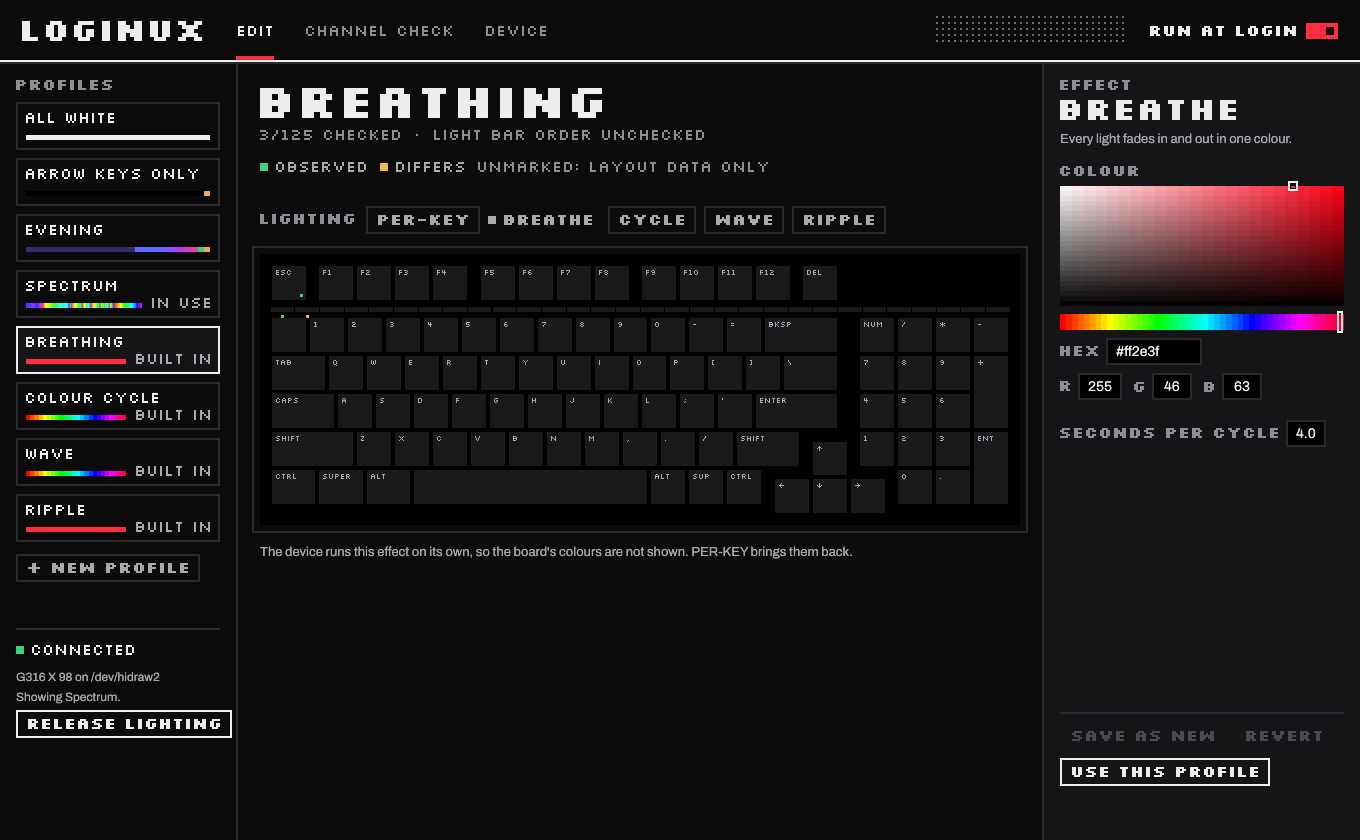
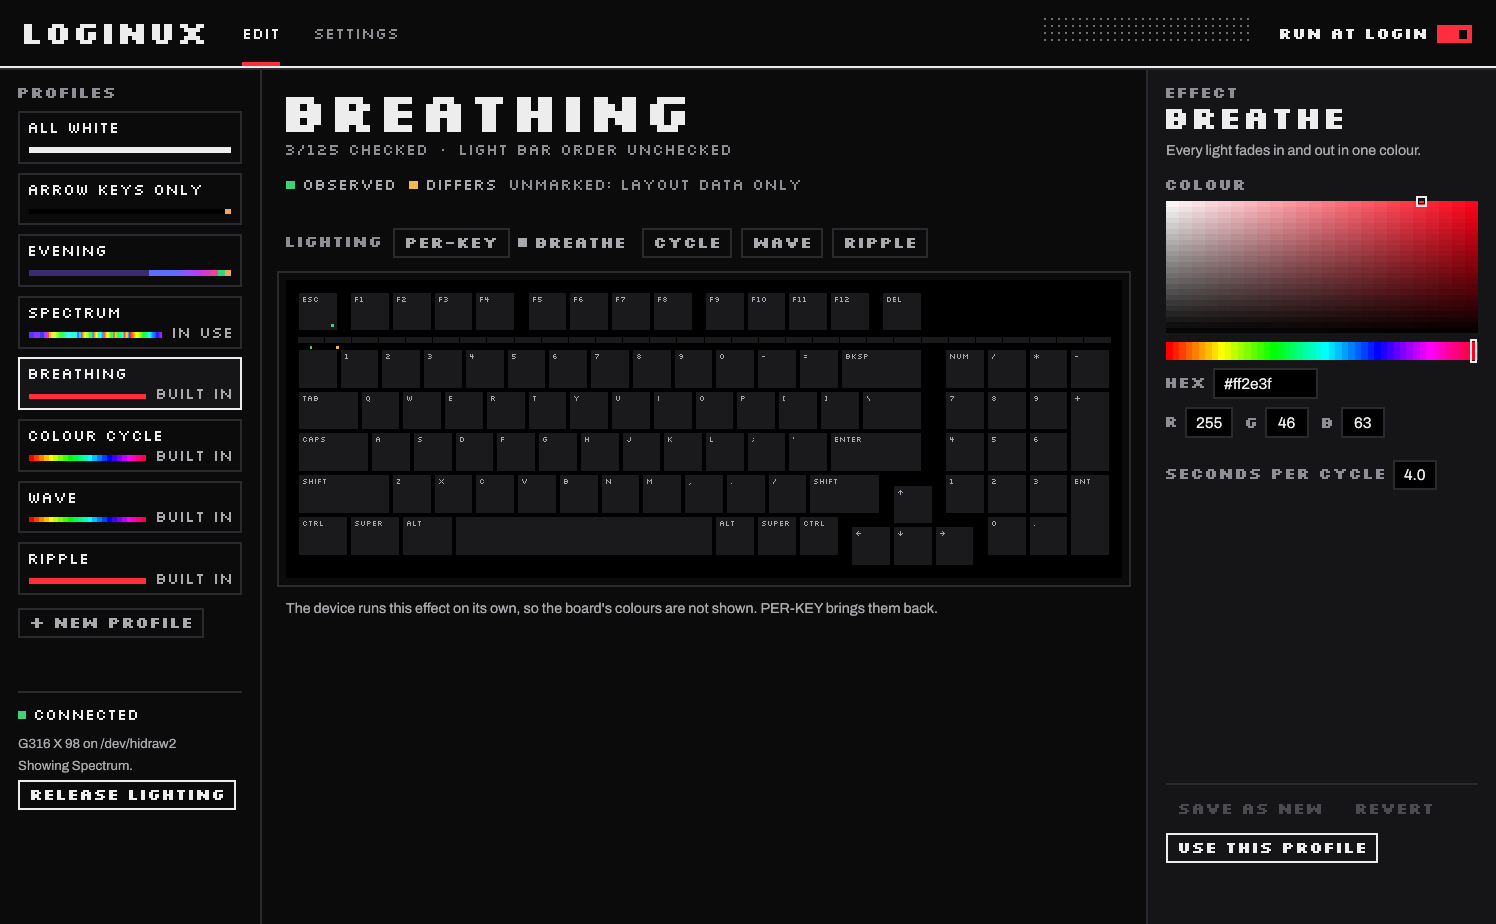
Editor: EDIT and SETTINGS, with the channel check under SETTINGS
The header carried three tabs, EDIT, CHANNEL CHECK and DEVICE, though only
editing is everyday work: the channel check is calibration and the device
rows are settings. The header now has EDIT and SETTINGS. SETTINGS shows the
device rows, then a short channel-check entry with its progress and an OPEN
CHANNEL CHECK button. The check keeps its full view, with BACK TO SETTINGS on
its title row, and SETTINGS stays underlined while it is open. The docs,
DESIGN.md, the design sidecar and the README screenshots follow.

diff --git a/src/ui.rs b/src/ui.rs
@@ -389,8 +389,10 @@ fn service_state() -> Service {
 #[derive(Clone, Copy, PartialEq)]
 enum Tab {
     Edit,
+    /// Device settings, and the way into the channel check.
+    Settings,
+    /// The channel check, opened from Settings, under the SETTINGS tab.
     Check,
-    Device,
 }
 
 #[derive(Clone, Copy, PartialEq)]
@@ -732,12 +734,12 @@ impl App {
         px_text(&p, pos2(r.min.x + 22.0, r.center().y - brand.y / 2.0), "LOGINUX", BRAND, TEXT);
 
         let mut x = r.min.x + 22.0 + brand.x + 36.0;
-        for (tab, name) in [(Tab::Edit, "EDIT"), (Tab::Check, "CHANNEL CHECK"), (Tab::Device, "DEVICE")] {
+        for (tab, name) in [(Tab::Edit, "EDIT"), (Tab::Settings, "SETTINGS")] {
             let size = px_size(name, TAB, ppp);
             let hit = Rect::from_min_max(pos2(x - 8.0, r.min.y), pos2(x + size.x + 8.0, r.max.y));
             let resp = ui.interact(hit, ui.scope_id().with(name), Sense::click());
             resp.widget_info(|| egui::WidgetInfo::labeled(egui::Role::Tab, true, name));
-            let on = self.tab == tab;
+            let on = self.tab == tab || (tab == Tab::Settings && self.tab == Tab::Check);
             let ink = if on || resp.hovered() { TEXT } else { LABEL };
             px_text(&p, pos2(x, r.center().y - size.y / 2.0), name, TAB, ink);
             if on {
@@ -934,7 +936,7 @@ impl App {
         if self.tab == Tab::Check {
             return self.check_results(ui);
         }
-        if self.tab == Tab::Device {
+        if self.tab == Tab::Settings {
             return self.device_notes(ui);
         }
         if self.open.is_some() && self.work.effect.is_some() {
@@ -1326,15 +1328,37 @@ impl App {
         match self.tab {
             Tab::Edit => self.edit(ui),
             Tab::Check => self.check(ui),
-            Tab::Device => self.device(ui),
+            Tab::Settings => self.settings(ui),
         }
     }
 
     // ---- device settings ------------------------------------------------------------
 
-    fn device(&mut self, ui: &mut Ui) {
-        label(ui, "DEVICE", TITLE, TEXT);
+    /// Settings, set apart from the editor: the device's own settings, then a
+    /// way into the channel check, which is calibration rather than editing.
+    fn settings(&mut self, ui: &mut Ui) {
+        label(ui, "SETTINGS", TITLE, TEXT);
+        ui.add_space(18.0);
+        label(ui, "DEVICE", LABEL_PX, LABEL);
         ui.add_space(6.0);
+        self.device(ui);
+        ui.add_space(14.0);
+        rule(ui);
+        ui.add_space(14.0);
+        label(ui, "CHANNEL CHECK", LABEL_PX, LABEL);
+        ui.add_space(6.0);
+        body(ui, "Lights one zone at a time, so you can confirm where each key and light-bar segment really is.", TEXT2, 14.0);
+        ui.add_space(10.0);
+        ui.horizontal(|ui| {
+            if button(ui, "OPEN CHANNEL CHECK", Look::Outline, true).clicked() {
+                self.tab = Tab::Check;
+            }
+            ui.add_space(6.0);
+            label(ui, &self.checked(), SMALL, LABEL);
+        });
+    }
+
+    fn device(&mut self, ui: &mut Ui) {
         let Some(Device::Connected { name, path, protocol, .. }) = self.status().map(|s| s.device.clone()) else {
             body(ui, "Connect the keyboard to read its settings.", TEXT2, 14.0);
             return;
@@ -1442,14 +1466,11 @@ impl App {
         }
     }
 
-    fn edit(&mut self, ui: &mut Ui) {
-        let title = self.open.clone().unwrap_or_else(|| "NO PROFILE".into()).to_uppercase();
-        label(ui, &title, TITLE, TEXT);
-        ui.add_space(4.0);
+    /// How much of the map the channel check has confirmed, as the meta line says it.
+    fn checked(&self) -> String {
         let model = self.model;
         let mapped = model.zones.iter().filter(|z| z.kind != Kind::Unknown).count();
         let checked = self.checks.iter().filter(|(id, _)| model.zone(**id).is_some_and(|z| z.kind != Kind::Unknown)).count();
-        let live = matches!(self.status().map(|s| &s.control), Some(Control::Preview));
         let strips: String = model
             .strips
             .iter()
@@ -1458,9 +1479,19 @@ impl App {
                 format!(" \u{00b7} {} ORDER {}", s.title.to_uppercase(), if done { "CHECKED" } else { "UNCHECKED" })
             })
             .collect();
+        format!("{checked}/{mapped} CHECKED{strips}")
+    }
+
+    fn edit(&mut self, ui: &mut Ui) {
+        let title = self.open.clone().unwrap_or_else(|| "NO PROFILE".into()).to_uppercase();
+        label(ui, &title, TITLE, TEXT);
+        ui.add_space(4.0);
+        let model = self.model;
+        let live = matches!(self.status().map(|s| &s.control), Some(Control::Preview));
         let meta = format!(
-            "{}{checked}/{mapped} CHECKED{strips}{}",
+            "{}{}{}",
             if live { "LIVE \u{00b7} " } else { "" },
+            self.checked(),
             if self.dirty() { " \u{00b7} UNSAVED" } else { "" }
         );
         label(ui, &meta, SMALL, if self.dirty() { TEXT } else { LABEL });
@@ -1670,7 +1701,14 @@ impl App {
     // ---- channel check ----------------------------------------------------------------
 
     fn check(&mut self, ui: &mut Ui) {
-        label(ui, "CHANNEL CHECK", TITLE, TEXT);
+        ui.horizontal(|ui| {
+            label(ui, "CHANNEL CHECK", TITLE, TEXT);
+            ui.with_layout(egui::Layout::right_to_left(egui::Align::Center), |ui| {
+                if button(ui, "BACK TO SETTINGS", Look::Quiet, true).clicked() {
+                    self.tab = Tab::Settings;
+                }
+            });
+        });
         ui.add_space(6.0);
         let connected = self.connected_zones().is_some();
         let model = self.model;
@@ -1799,7 +1837,7 @@ impl App {
 /// after LOGINUX_SHOT_AFTER frames (default 30) and closes it the normal way.
 /// LOGINUX_SHOT_SELECT="23,1,19,4" preselects zones and LOGINUX_SHOT_PAINT=#rrggbb paints
 /// them; LOGINUX_SHOT_CONFIRM shows the unsaved-close question; LOGINUX_SHOT_SERVICE=off|on|changing
-/// stands in for systemd's answer; LOGINUX_SHOT_TAB=device opens the DEVICE tab
+/// stands in for systemd's answer; LOGINUX_SHOT_TAB=settings opens SETTINGS
 /// (LOGINUX_SHOT_CONFIRM_RATE=8000 shows the rate confirmation); LOGINUX_SHOT_TAB=check
 /// opens the channel check, and LOGINUX_SHOT_SET=strip starts a run on the first strip.
 #[cfg(feature = "screenshot")]
@@ -1819,8 +1857,8 @@ fn shot(app: &mut App, ctx: &egui::Context) {
         if std::env::var("LOGINUX_SHOT_CONFIRM").is_ok() {
             app.confirm = Some(Confirm::Close);
         }
-        if std::env::var("LOGINUX_SHOT_TAB").is_ok_and(|t| t == "device") {
-            app.tab = Tab::Device;
+        if std::env::var("LOGINUX_SHOT_TAB").is_ok_and(|t| t == "settings") {
+            app.tab = Tab::Settings;
             app.rate_confirm = std::env::var("LOGINUX_SHOT_CONFIRM_RATE").ok().and_then(|r| r.parse().ok());
         }
         if std::env::var("LOGINUX_SHOT_TAB").is_ok_and(|t| t == "check") {
@@ -2544,15 +2582,17 @@ mod tests {
         w.app.sync_picker();
         w.run(2);
         assert!(w.has("ALL KEYS") && w.has("LIGHT BAR") && w.has("keyboard map"));
-        w.click("CHANNEL CHECK");
+        w.click("SETTINGS");
+        assert!(w.app.tab == Tab::Settings && w.has("OPEN CHANNEL CHECK"));
+        w.click("OPEN CHANNEL CHECK");
         assert!(w.app.tab == Tab::Check && w.has("CHECK ALL KEYS") && !w.enabled("CHECK ALL KEYS"), "a check needs a connected device");
         w.app.set = Some(Set::Strip(0));
         w.run(2);
         assert!(w.has("NOTHING LIT") && w.has("STOP"));
         w.click("STOP");
         assert!(w.app.set.is_none());
-        w.click("DEVICE");
-        assert!(w.app.tab == Tab::Device);
+        w.click("BACK TO SETTINGS");
+        assert!(w.app.tab == Tab::Settings);
         w.click("EDIT");
         w.app.notice = Some(("Something to read".into(), AMBER));
         w.run(1);
@@ -2991,7 +3031,8 @@ mod tests {
         w.until("taken back", |w| matches!(control(w), Some(Control::Profile { .. })));
 
         // Channel check: answers by clicking where the light is, or by the buttons.
-        w.click("CHANNEL CHECK");
+        w.click("SETTINGS");
+        w.click("OPEN CHANNEL CHECK");
         let strip = w.app.model.strips[0].zones.clone();
         let at = w.find("CHECK LIGHT BAR").center();
         w.hover(at);
@@ -3035,7 +3076,7 @@ mod tests {
         w.click("OK");
 
         // Device settings, and a report-rate change: cancelled, confirmed, then refused.
-        w.click("DEVICE");
+        w.click("SETTINGS");
         w.run(1);
         assert!(w.has("Changes only when you choose a rate"), "nothing kept yet");
         w.click("2000 HZ");
@@ -3093,7 +3134,7 @@ mod tests {
         w.run(1);
         assert!(noticed(&w, "The connected keyboard is a Logitech G903 HERO"));
         assert!(w.has("WAVE") && !w.enabled("WAVE") && w.enabled("BREATHE"));
-        w.click("DEVICE");
+        w.click("SETTINGS");
         w.run(1);
         assert!(!w.nodes.iter().any(|n| n.label.ends_with(" HZ")), "no report rates to set on this mouse");
         profile::delete("T mouse").unwrap();

diff --git a/.impeccable/surfaces/src-ui-rs.md b/.impeccable/surfaces/src-ui-rs.md
@@ -17,7 +17,7 @@ OWN-WORLD: Ground #0B0B0C, panels #151517, 2 px rules #2A2A2E, emphasis rules an
 
 STORY: The user sees at once which profile the keyboard shows, whether Loginux holds the lighting, and what is proven. They click keys, drag the picker, watch the board change live, save, then pick Use at login or Release lighting. Channel check lights one zone at a time and records what they saw.
 
-FIRST VIEWPORT: A 64 px header with the LOGINUX wordmark, EDIT and CHANNEL CHECK tabs (red underline on the active one), the dot patch, and the RUN AT LOGIN switch at the right. Below it, three columns. Left, 220 px: profiles in ruled boxes with colour strips, then connection status and RELEASE LIGHTING at the bottom. Centre: the profile name in 48 px bitmap caps, a proof line, and the keyboard on its black body at full width. Right, 300 px: the specimen column with the selection name, hex at 32 px, the swatch at three sizes, RGB rows, the picker and SAVE.
+FIRST VIEWPORT: A 64 px header with the LOGINUX wordmark, EDIT and SETTINGS tabs (red underline on the active one; the channel check opens from SETTINGS), the dot patch, and the RUN AT LOGIN switch at the right. Below it, three columns. Left, 220 px: profiles in ruled boxes with colour strips, then connection status and RELEASE LIGHTING at the bottom. Centre: the profile name in 48 px bitmap caps, a proof line, and the keyboard on its black body at full width. Right, 300 px: the specimen column with the selection name, hex at 32 px, the swatch at three sizes, RGB rows, the picker and SAVE.
 
 FORM: Bitmap Specimen, dark. This is the user's steer of the Emigre bitmap-specimen world, position 1 of the safer lineup and pinned by the user. seed:45ddbf08ecb486ea
 

diff --git a/DESIGN.md b/DESIGN.md
@@ -209,10 +209,10 @@ Near-black greys for structure, LED colour for content, and three signals that n
 **Character:** Silkscreen is a 5-row capital bitmap drawn cell by cell, so it reads as hardware type, the same voice as the keyboard's dot screen. Archivo is a plain grotesque that keeps sentences legible beside it. Silkscreen is set in caps only. Its one-cell side bearings are trimmed so ink sizes are exact.
 
 ### Hierarchy
-- **Title** (Silkscreen Bold, 6pt cell, 30pt cap): the open profile's name and the CHANNEL CHECK heading in the centre column.
+- **Title** (Silkscreen Bold, 6pt cell, 30pt cap): the open profile's name, and the SETTINGS and CHANNEL CHECK headings, in the centre column.
 - **Brand** (Silkscreen Bold, 4pt cell, 20pt cap): the LOGINUX wordmark at the header's left.
 - **Hex** (Silkscreen Bold, 4pt cell, 20pt cap): the selection's hex value, or NONE or MIXED, and the zone number during a check.
-- **Tab** (Silkscreen Regular, 2pt cell, 10pt cap): EDIT and CHANNEL CHECK in the header.
+- **Tab** (Silkscreen Regular, 2pt cell, 10pt cap): EDIT and SETTINGS in the header. The channel check opens from SETTINGS, which stays underlined while it runs.
 - **Label** (Silkscreen Bold, 1.5pt cell, 7.5pt cap): button labels and control-group labels.
 - **Small** (Silkscreen Regular, 1.5pt cell, 7.5pt cap): profile names, status words, meta and proof lines, research-zone numbers.
 - **Legend** (Silkscreen Regular, 1pt cell, 5pt cap): key legends, inset 4pt from the key's top-left.

diff --git a/docs/usage.md b/docs/usage.md
@@ -56,12 +56,12 @@ starts one inside the window, and that engine hands the lighting back when the
 window closes. To keep a profile after the window closes and at every login,
 turn on RUN AT LOGIN (it needs the service installed, see below).
 
-CHANNEL CHECK lights one zone at a time, white, with everything else dark. You
-click where the light appeared, or answer that nothing lit or that it lit
-somewhere not on the map. Answers go to
+The channel check, under SETTINGS (OPEN CHANNEL CHECK), lights one zone at a
+time, white, with everything else dark. You click where the light appeared, or
+answer that nothing lit or that it lit somewhere not on the map. Answers go to
 `~/.config/loginux/checks/KEYBOARD.toml` and show on the board as marks: green
-where the LED matched the map, amber where it did not. Until a zone is
-checked, its position is layout data and not proof.
+where the LED matched the map, amber where it did not. Until a zone is checked,
+its position is layout data and not proof.
 
 ## The tray icon
 
@@ -158,7 +158,7 @@ with none of it refuses the profile: the G903 has no wave or ripple.
 
 ## Device settings
 
-The editor's DEVICE tab and `loginux status` show settings the keyboard
+The editor's SETTINGS page and `loginux status` show settings the keyboard
 reports, when it reports them. Loginux reads them on every connection and
 every two seconds after, and at once when the keyboard says its brightness
 changed, for example from its knob.

diff --git a/research/g316-extra-controls.md b/research/g316-extra-controls.md
@@ -99,12 +99,12 @@ distinct from a watched Linux result.
 
 ## In Loginux
 
-- `loginux status` and the editor's DEVICE tab show brightness, game mode and
+- `loginux status` and the editor's SETTINGS page show brightness, game mode and
   the report rate when the keyboard reports them. Loginux resolves each
   feature by ID on every connection, reads it then and every two seconds,
   applies game-mode notifications as they arrive, and reads the brightness
   again at once on any `0x8040` notification.
-- `loginux rate HZ`, or a confirmed choice in the DEVICE tab, sends
+- `loginux rate HZ`, or a confirmed choice under SETTINGS, sends
   `0x8061/3` once, between `0x8101/6 [05]` and `[03]` on a keyboard that has
   `0x8101`. A lost reply is treated as unknown, not failure: Loginux
   waits up to 20 s for the keyboard to return, reads the rate back with

diff --git a/CONTRIBUTING.md b/CONTRIBUTING.md
@@ -27,7 +27,8 @@ protocol backend; see the last section.
    keyboard usage minus 3, and the modifiers are 104 to 111. The positions are
    a placeholder grid.
 
-3. **Check every zone on the keyboard.** Run `loginux`, open CHANNEL CHECK and
+3. **Check every zone on the keyboard.** Run `loginux`, open SETTINGS, then OPEN
+   CHANNEL CHECK, and
    check all keys and the unknown zones. Loginux lights one zone at a time;
    click the key that lit, or answer NOTHING LIT or NOT ON THE MAP. Then fix
    the file: rename keys that lit somewhere else, move zones that lit a
